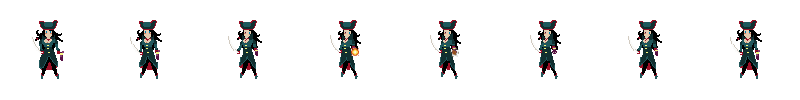
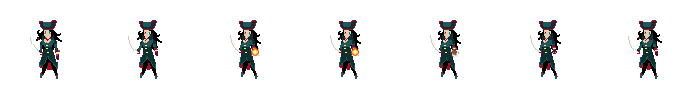
Ajustes en spritesheets y en variables de animaciondes de Player.h

diff --git a/src/Sources/Player.h b/src/Sources/Player.h
@@ -90,21 +90,21 @@ private:
 	Anim shootAnimR_{ 0, 0, 0, 0, false};	//Animación de disparo
 	Texture* shootR_ = nullptr;				//Textura del disparo
 	const int SHOOT_R_FRAMES = 3;			//Frames de la animación
-	const int SHOOT_R_FRAME_RATE = 100;		//Frame rate
+	const int SHOOT_R_FRAME_RATE = 150;		//Frame rate
 	//Disparo hacia arriba
 	Anim shootAnimU_{ 0, 0, 0, 0, false };	//Animación de disparo
 	Texture* shootU_ = nullptr;				//Textura del disparo
-	const int SHOOT_U_FRAMES = 8;			//Frames de la animación
+	const int SHOOT_U_FRAMES = 7;			//Frames de la animación
 	const int SHOOT_U_FRAME_RATE = 40;		//Frame rate
 	//Disparo hacia izquierda
 	Anim shootAnimL_{ 0, 0, 0, 0, false };	//Animación de disparo
 	Texture* shootL_ = nullptr;				//Textura del disparo
 	const int SHOOT_L_FRAMES = 3;			//Frames de la animación
-	const int SHOOT_L_FRAME_RATE = 100;		//Frame rate
+	const int SHOOT_L_FRAME_RATE = 150;		//Frame rate
 	//Disparo hacia abajo
 	Anim shootAnimD_{ 0, 0, 0, 0, false };	//Animación de disparo
 	Texture* shootD_ = nullptr;				//Textura del disparo
-	const int SHOOT_D_FRAMES = 8;			//Frames de la animación
+	const int SHOOT_D_FRAMES = 7;			//Frames de la animación
 	const int SHOOT_D_FRAME_RATE = 40;		//Frame rate
 	//Idle
 	//Inicialización de las animaciones

diff --git a/src/Sources/Player.cpp b/src/Sources/Player.cpp
@@ -125,7 +125,7 @@ void Player::initShoot()
 	case DIR::RIGHT:
 		texture_ = shootR_;
 		currAnim_ = shootAnimR_;
-		frameShoot_ = 2;
+		frameShoot_ = 1;
 		break;
 	case DIR::DOWN:
 		texture_ = shootD_;
@@ -135,7 +135,7 @@ void Player::initShoot()
 	case DIR::LEFT:
 		texture_ = shootL_;
 		currAnim_ = shootAnimL_;
-		frameShoot_ = 2;
+		frameShoot_ = 1;
 		break;
 	}
 
@@ -152,13 +152,13 @@ void Player::updateDirVis()
 	dir.normalize();
 	double angle = atan2(dir.getY(), dir.getX()) * 180 / M_PI;
 	if (angle >= 0) {
-		if (angle <= 50.0) lookAt = DIR::RIGHT;
-		else if (angle < 130.0) lookAt = DIR::DOWN;
+		if (angle <= 45.0) lookAt = DIR::RIGHT;
+		else if (angle < 135.0) lookAt = DIR::DOWN;
 		else lookAt = DIR::LEFT;
 	}
 	else {
-		if (angle >= -50.0) lookAt = DIR::RIGHT;
-		else if (angle >= -130.0) lookAt = DIR::UP;
+		if (angle >= -45.0) lookAt = DIR::RIGHT;
+		else if (angle >= -135.0) lookAt = DIR::UP;
 		else lookAt = DIR::LEFT;
 	}
 }

diff --git a/src/Sources/CaribbeanIslandState.h b/src/Sources/CaribbeanIslandState.h
@@ -20,8 +20,8 @@ public:
 #pragma endregion
 protected:
 	//Dimensiones de las entidades
-	const int W_PLAYER = app_->getWindowWidth() / 40;
-	const int H_PLAYER = app_->getWindowHeight() / 15;
+	const int W_PLAYER = app_->getWindowWidth() / 15;
+	const int H_PLAYER = app_->getWindowHeight() / 5;
 
 	const int W_MONKEY = app_->getWindowWidth() / 20;
 	const int H_MONKEY = app_->getWindowHeight() / 15;
